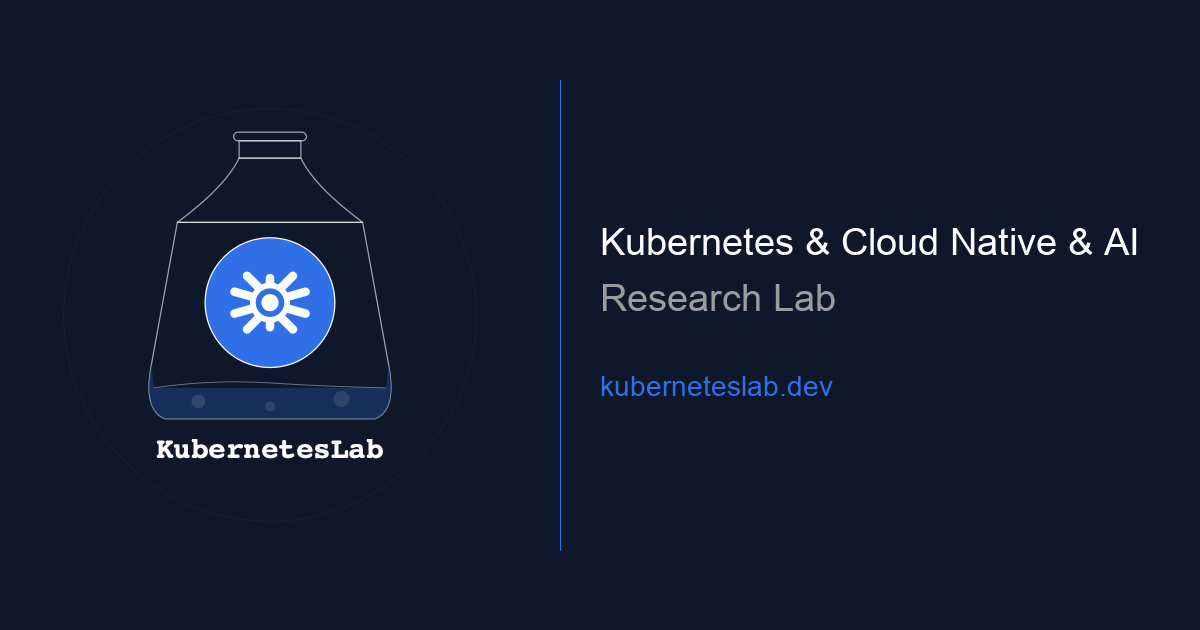
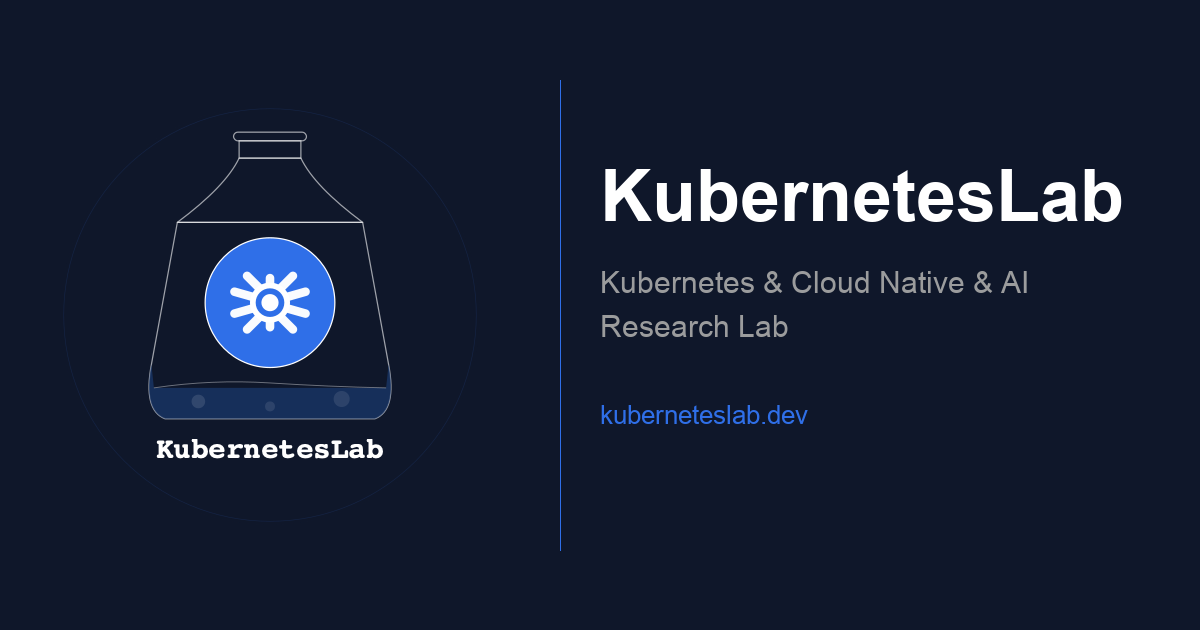
Restore KubernetesLab title in OG image and update home hero
- Restore KubernetesLab title on right side of og-brand.png (intentional brand reinforcement)
- Add CNCF Ambassador / Kubestronaut / AIOps Researcher tagline to home hero
- Remove min-height on home-info hero to reduce excess whitespace

Changed region(s): [[0.4933, 0.2714, 0.9558, 0.5429], [0.4933, 0.6032, 0.7092, 0.6937]]

diff --git a/assets/css/extended/brand.css b/assets/css/extended/brand.css
@@ -1,3 +1,8 @@
+/* 홈 히어로 최소 높이 축소 (테마 기본 320px → 콘텐츠에 맞게) */
+.first-entry.home-info {
+    min-height: 0;
+}
+
 .profile-header {
     display: flex;
     flex-direction: row-reverse;
